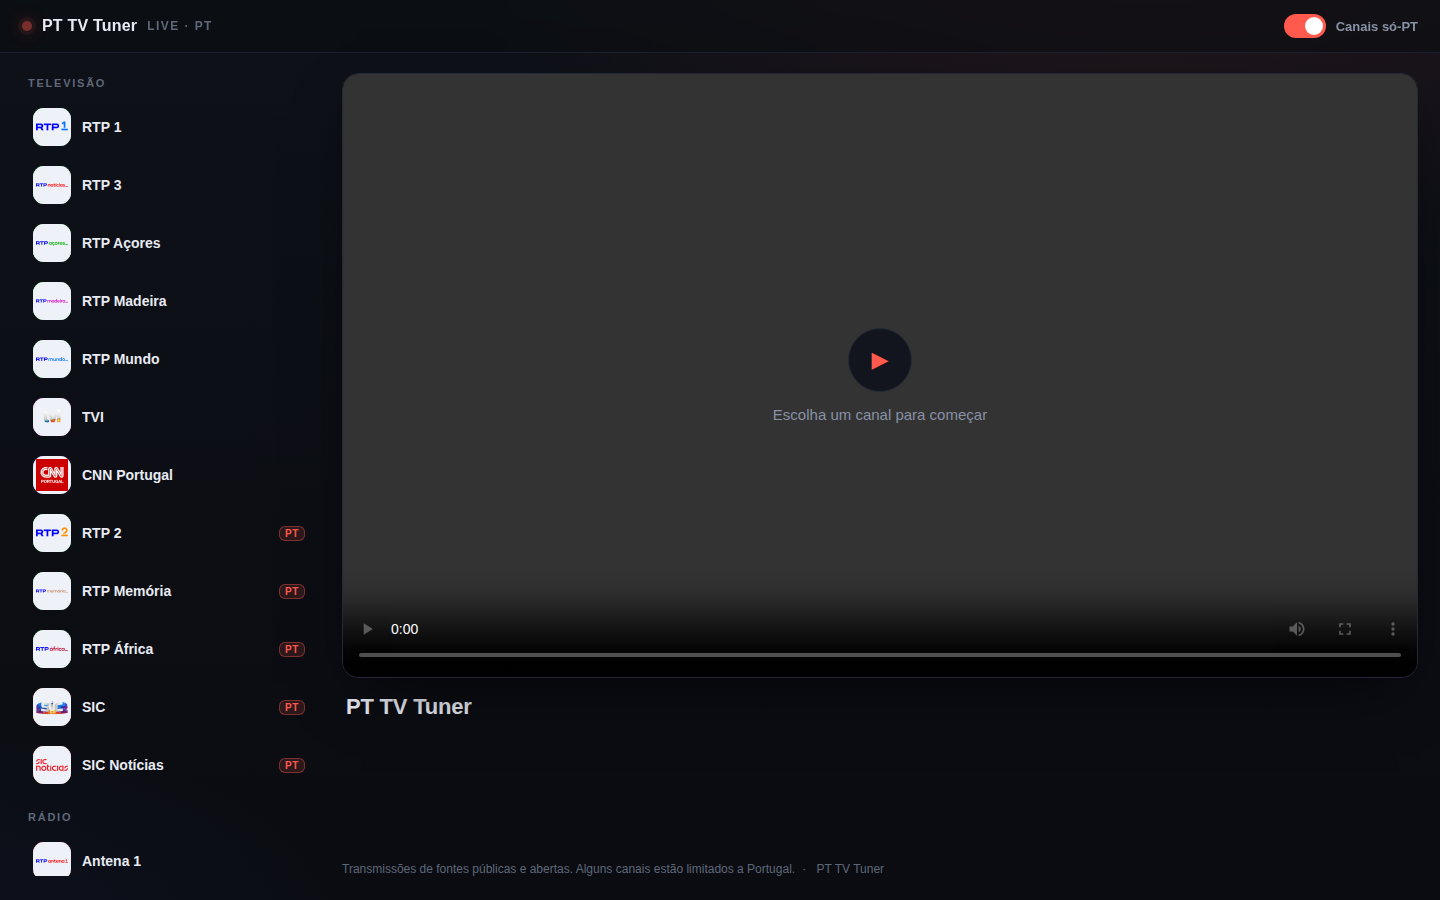
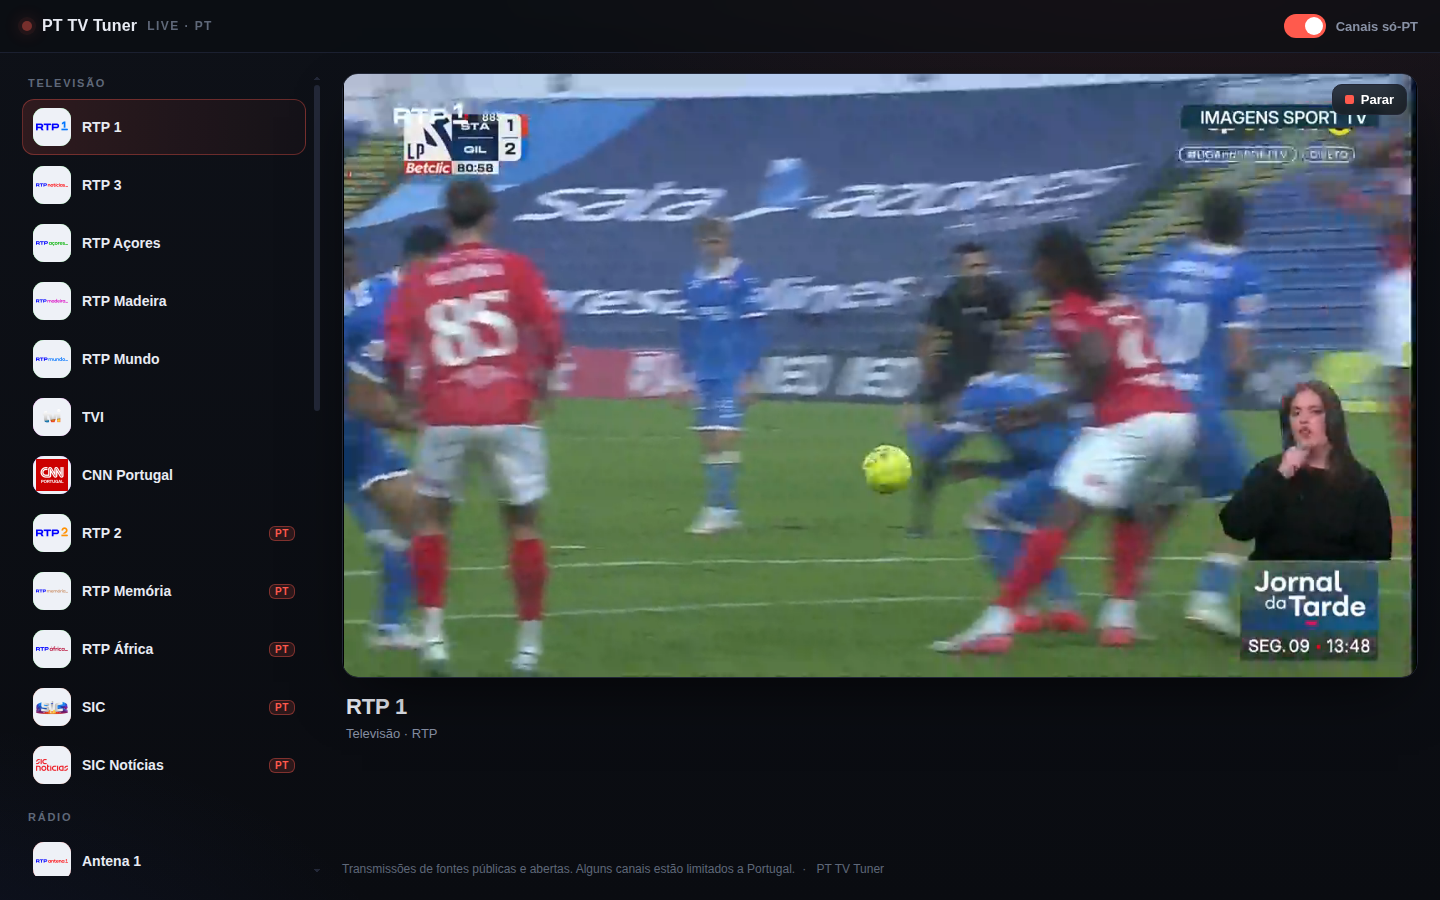
Docs/screenshots: show live player with Parar stop button

diff --git a/landing/index.html b/landing/index.html
@@ -104,6 +104,7 @@
       <div class="card"><div class="ico">🐳</div><h3>One command</h3><p><code>docker compose up -d --build</code> — nothing else to install.</p></div>
       <div class="card"><div class="ico">📱</div><h3>Responsive</h3><p>Clean on desktop and phone; the channel rail becomes a swipeable strip.</p></div>
       <div class="card"><div class="ico">🛡</div><h3>Hardened</h3><p>Non-root containers, dropped capabilities, read-only FS, CSP and a host-allowlisted proxy.</p></div>
+      <div class="card"><div class="ico">⏹</div><h3>Parar / Stop</h3><p>Press the red <b>■ Parar</b> button (or <kbd>Esc</kbd>) on the player to stop the stream and go back to choosing a channel.</p></div>
     </div>
   </section>
 

diff --git a/README.md b/README.md
@@ -11,6 +11,7 @@ It is **a player, not a host**: the app fetches publicly available live streams 
 - **Live TV**: RTP 1, RTP 3, RTP Açores, RTP Madeira, RTP Mundo, TVI, CNN Portugal.
 - **Live radio**: the RTP radio family (Antena 1/2/3, regional stations, Lusitânia, Fado, Jazzin, Ópera, Zig Zag) plus **Rádio Comercial, M80, Smooth FM, Cidade FM, Rádio Observador and TSF**.
 - **"Canais só-PT" toggle**: reveals channels that are limited to Portuguese connections (SIC, SIC Notícias, RTP 2, RTP Memória, RTP África, RTP Vida). They only play when the host's egress is in Portugal — otherwise the player explains why instead of failing silently.
+- **Stop anytime**: the red **■ Parar** button on the player (or `Esc`) ends the stream and returns to channel selection.
 - Responsive, dark, app-like UI. Keyboard `↑`/`↓` switches channels.
 - Resilient playback: native HLS on Safari/iOS, [hls.js](https://github.com/video-dev/hls.js) everywhere else.
 
